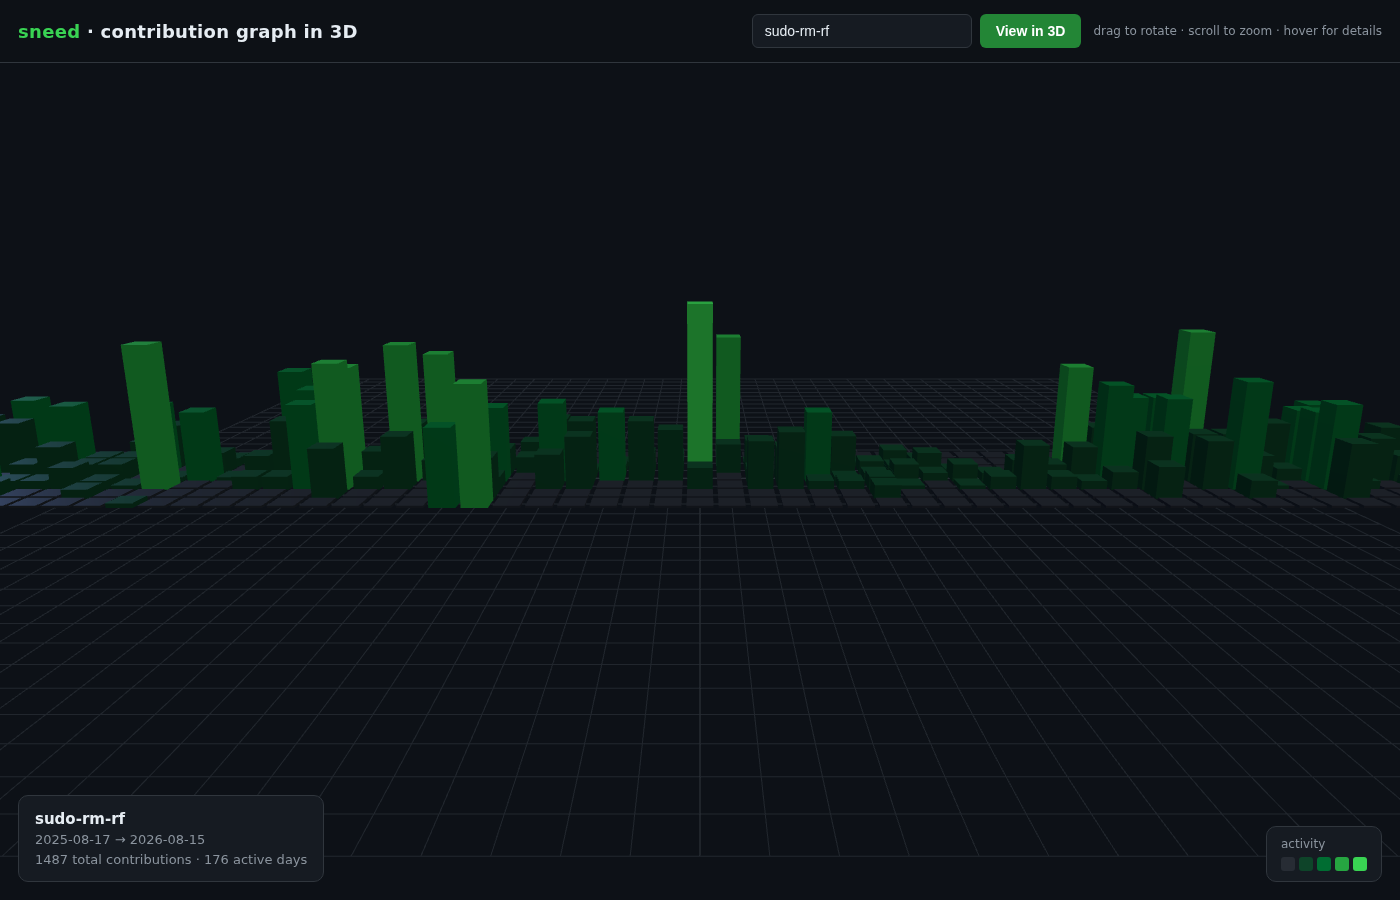
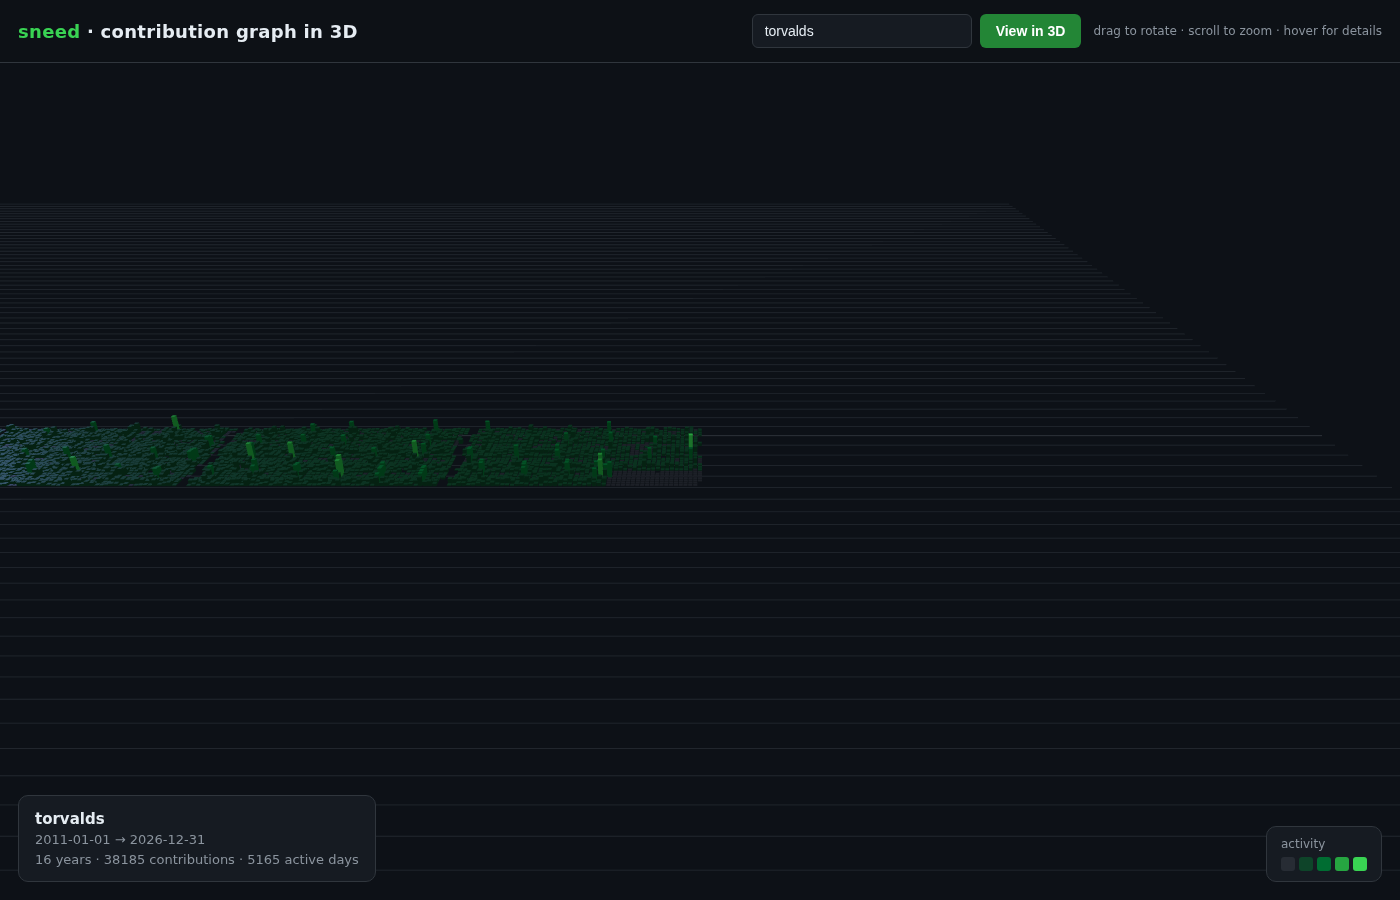
Frame full history as a compact multi-row 3D field; fix layout bugs
- Lay years out as blocks in a 4-across grid (oldest first) instead of one
  impractically wide ribbon, so the entire history frames well on load
- Frame camera to the field bounding box with proper margin + elevation
- Fix a const-redeclaration syntax error and a stray const-increment
- Allow ?u=<username> to deep-link a specific account
- Regenerate demo screenshot

Changed region(s): [[0.0, 0.3111, 1.0, 0.5911], [0.0307, 0.9022, 0.2457, 0.9644], [0.5529, 0.0311, 0.5836, 0.0622]]

diff --git a/public/index.html b/public/index.html
@@ -101,10 +101,10 @@
   const key = new THREE.DirectionalLight(0xffffff, 1.1); key.position.set(1, 2, 1); scene.add(key);
   const fill = new THREE.DirectionalLight(0x88b0ff, 0.35); fill.position.set(-1, 0.5, -1); scene.add(fill);
 
-  const grid = new THREE.GridHelper(200, 100, 0x30363d, 0x21262d);
+  const grid = new THREE.GridHelper(500, 100, 0x30363d, 0x21262d);
   scene.add(grid);
   const base = new THREE.Mesh(
-    new THREE.PlaneGeometry(200, 200),
+    new THREE.PlaneGeometry(500, 500),
     new THREE.MeshBasicMaterial({ color: 0x0d1117, transparent: true, opacity: 0.6 })
   );
   base.rotation.x = -Math.PI / 2; base.position.y = -0.05; scene.add(base);
@@ -128,26 +128,37 @@
   resize();
 
   // ---- build a GitHub-style calendar grid for a list of chronological days ----
+  // Years are laid out as blocks in a compact multi-row grid (oldest first) so the
+  // whole history frames well instead of forming one impractically wide ribbon.
   function layoutDays(days) {
-    // returns array of { date, count, x, z } laid out as year blocks (oldest left)
     const spacing = 1.0;
-    const weeksPerBlock = 54; // 53 weeks + 1 gap between years
-    let yearOffset = 0;
+    const weeksPerBlock = 54; // 53 weeks + a gap before the next year block
+    const perRow = 4;
+    const rowGap = 7;
     const placed = [];
-    for (let i = 0; i < days.length; ) {
+    let i = 0;
+    let block = 0;
+    while (i < days.length) {
       const y = parseInt(days[i].date.slice(0, 4), 10);
       const firstDow = new Date(y, 0, 1).getDay();
-      const j = i;
+      let j = i;
       while (j < days.length && parseInt(days[j].date.slice(0, 4), 10) === y && j - i < 370) j++;
+      const colOffset = (block % perRow) * weeksPerBlock;
+      const zOffset = Math.floor(block / perRow) * rowGap;
       for (let k = i; k < j; k++) {
         const d = days[k];
         const date = new Date(d.date + "T00:00:00");
         const doy = Math.floor((date - new Date(y, 0, 1)) / 86400000);
         const col = Math.floor((doy + firstDow) / 7);
         const row = date.getDay(); // 0 Sun ... 6 Sat (Sun on top)
-        placed.push({ date: d.date, count: d.count, x: (yearOffset + col) * spacing, z: (row - 3) * spacing });
+        placed.push({
+          date: d.date,
+          count: d.count,
+          x: (colOffset + col) * spacing,
+          z: zOffset + (row - 3) * spacing,
+        });
       }
-      yearOffset += weeksPerBlock;
+      block++;
       i = j;
     }
     return placed;
@@ -192,9 +203,17 @@
     barGroup.add(bars);
     barMeshes = [bars];
 
-    const width = Math.max(xs) - Math.min(xs);
-    camera.position.set(0, 6 + width * 0.4, 14 + width * 0.7);
-    controls.target.set(0, 1, 0);
+    // frame the whole field, keeping bars big enough to read
+    const xr = placed.map((p) => p.x);
+    const zr = placed.map((p) => p.z);
+    const x0 = Math.min(...xr), x1 = Math.max(...xr);
+    const z0 = Math.min(...zr), z1 = Math.max(...zr);
+    const fcx = (x0 + x1) / 2, fcz = (z0 + z1) / 2;
+    const size = Math.max(x1 - x0, z1 - z0, 8);
+    const afov = (25 * Math.PI) / 180;
+    const dist = (size / 2 + 6) / (Math.tan(afov) * (innerWidth / innerHeight)) * 1.35;
+    camera.position.set(fcx, dist * 0.5, fcz + dist);
+    controls.target.set(fcx, 1.5, fcz);
     controls.update();
 
     const total = data.days.reduce((s, d) => s + d.count, 0);
@@ -270,8 +289,9 @@
     if (e.key === "Enter") { const v = e.target.value.trim(); if (v) load(v); }
   });
 
-  // start with a fun default
-  load("sudo-rm-rf");
+  // start with a fun default (override with ?u=username)
+  const initialUser = new URLSearchParams(location.search).get("u") || "sudo-rm-rf";
+  load(initialUser);
   </script>
 </body>
 </html>
